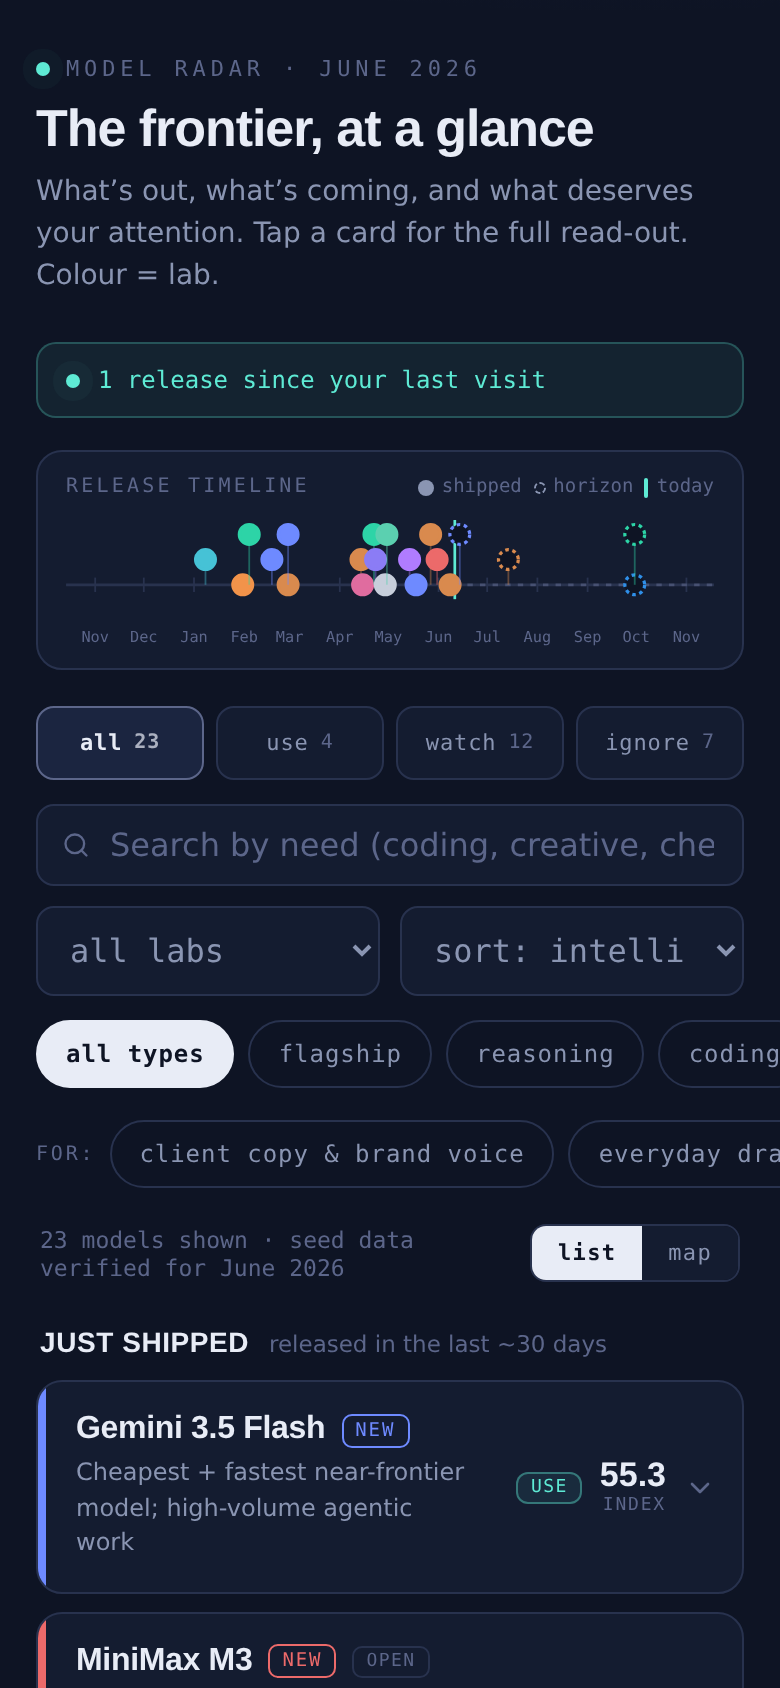
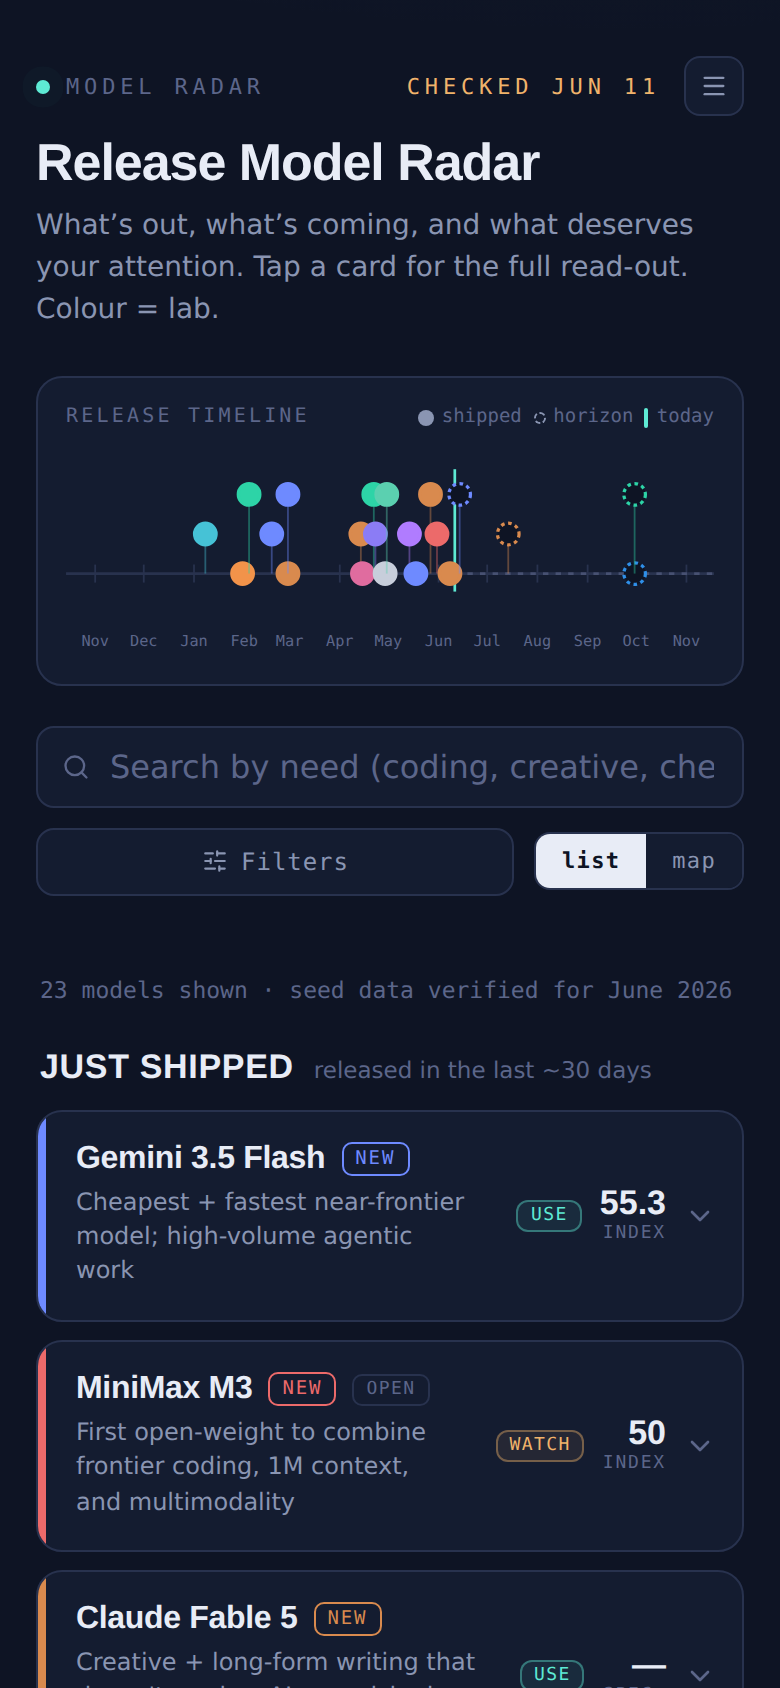
docs: update README with build log and current product name
https://claude.ai/code/session_0155gH6oSoU66PQJYNDkdGkr

diff --git a/README.md b/README.md
@@ -1,8 +1,11 @@
-# Model Radar
+# Release Model Radar
 
 The AI frontier at a glance — a curated tracker of closed flagships, open-weight
 leaders, small/edge models, and what's on the horizon. Expandable cards with
-specs, strengths vs watch-outs, pricing, and community sentiment.
+specs, strengths vs watch-outs, pricing, and community sentiment — plus a
+plain-English definitions library, a lab news feed, and a daily read-only
+update checker that surfaces candidates without ever touching the curated
+catalog.
 
 ![Next.js](https://img.shields.io/badge/Next.js-000000?style=for-the-badge&logo=nextdotjs&logoColor=white)
 ![TypeScript](https://img.shields.io/badge/TypeScript-3178C6?style=for-the-badge&logo=typescript&logoColor=white)
@@ -134,8 +137,23 @@ pm2 restart release
 
 Health check: `http://localhost:3033/api/health`
 
-## History
+## Build log
 
-This repo previously hosted Episode Radar (Sonarr + Plex tracker), then the
-AI Release Radar feed (June 2026), before becoming Model Radar. Both earlier
-apps are preserved in git history.
+How this repo got here (all in June 2026, newest first). Every earlier app
+remains recoverable from git history.
+
+| Commit | What changed |
+|---|---|
+| `4729537` | **Last-checked header badge** — `data/update-status.json` written by the checker; top-right badge shows "Checked Jun 11, 7:43 PM" (amber on failed sources / stale >36h, "Not checked yet" fallback); hourly ISR re-read |
+| `d160014` | **Definitions + Lab News** — `/definitions` (36-term plain-English glossary, search + category chips), `/news` (official RSS first, labelled news-search fallback, render-always static fallback, 6h revalidate), top-right site menu, taller timeline |
+| `4540d77` | **Daily update checker** — `npm run check:updates`: read-only candidate gathering from Hugging Face orgs, OpenRouter, and Google News, deduped against catalog + prior runs; cron-friendly; never edits the catalog |
+| `1c112b8` | **Spacing polish** — status-bar eyebrow, "Release Model Radar" title, triage moved into the Filters sheet, 20/40px rhythm, larger section headers |
+| `caec9e2` | **Filters bottom sheet** — secondary filters (lab, sort, type, best-for) moved off the page into a mobile bottom sheet / desktop modal with active-count badge; first card above the fold |
+| `cc0cc72` | **Hydration crash fix** — timeline SVG renders post-mount (positions derive from `Date.now()`; SSR coordinates could never match the client → React #418 in production) |
+| `721e091` | **Triage era** — use/watch/ignore verdicts, release timeline, intelligence-vs-price map view, for-the-job picker, new-since-last-visit, `/labs/<id>` profile pages |
+| `1e988aa` | **Model Radar takes over `/`** — release-feed app removed; mobile filter cleanup; 16px inputs to stop iOS focus zoom |
+| `e43b155` | **Model Radar lands** — the chat-built tracker integrated at `/models`: catalog split into `lib/models/data.ts`, CSS tokens extracted, localStorage persistence added |
+| `0e86a1a` | **AI Release Radar rewrite** — replaced the original Episode Radar (Sonarr + Plex episode tracker) with an AI model release feed (curated timeline + live Hugging Face + news), later superseded by Model Radar |
+
+Before all of this, the repo hosted **Episode Radar**, a Sonarr + Plex episode
+tracker (see `docs/milestones/`).